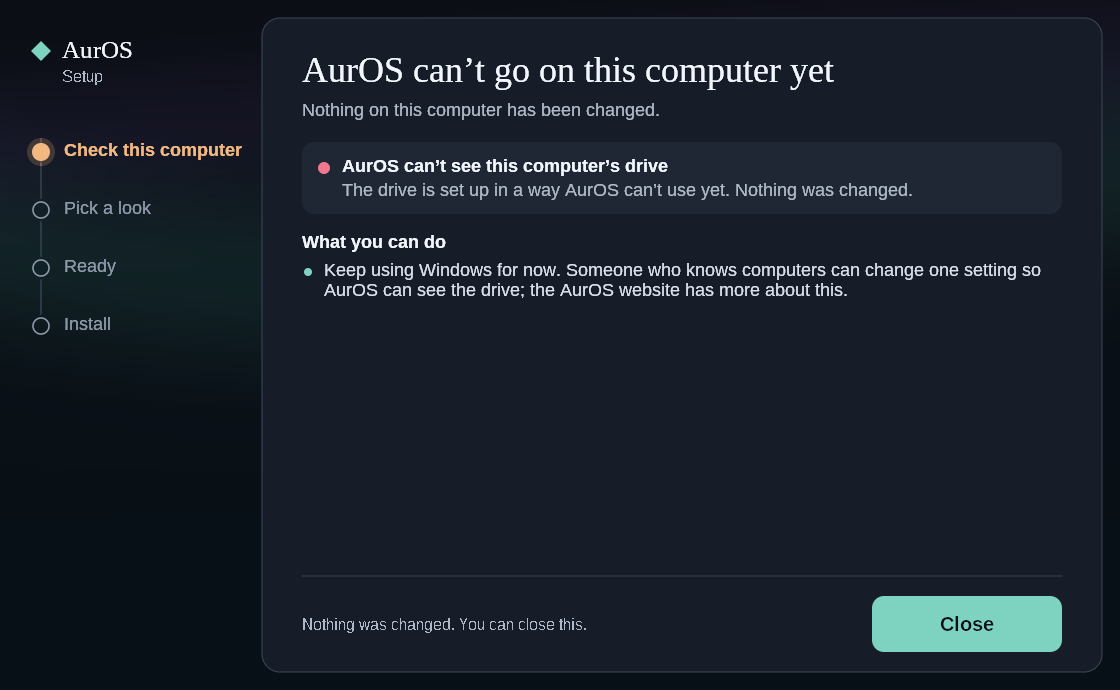
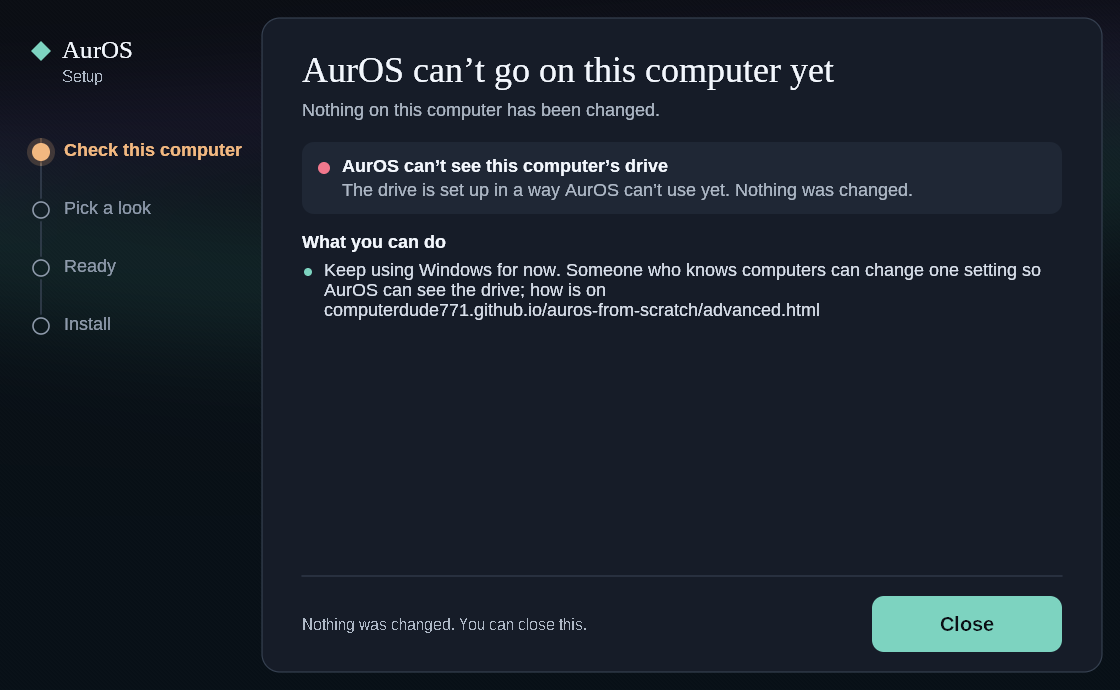
wizard: the can't-install page names the helper's page
For a PC that starts the older way, or an Intel-remapped NVMe drive,
"What you can do" now says where someone who knows computers finds how
(website/advanced.html, stream K): the address in full, because she
will copy it down. Shots re-rendered.

Claude-Session: https://claude.ai/code/session_017qioTeikWexSpAiM6y9oSA

Changed region(s): [[0.2812, 0.3957, 0.75, 0.4565]]

diff --git a/src/aurbridge/fix_win.c b/src/aurbridge/fix_win.c
@@ -158,16 +158,21 @@ static const struct { const char *id; const wchar_t *line; } NOTES[] = {
 
 /* ── when it cannot go on: what she can do instead ────────────────── */
 
+/* The page for "someone who knows computers" (website/advanced.html):
+ * switching a BIOS-mode PC to the newer way, and Intel's "RAID On" to
+ * AHCI, safely. Written out in full, because she will copy it down. */
+#define ADVANCED L"computerdude771.github.io/auros-from-scratch/advanced.html"
+
 static const struct { const char *id; const wchar_t *line; } INSTEAD[] = {
     { "arm-pc",
       L"Keep using Windows on this computer. AurOS goes on most other Windows "
       L"computers, so a different one will probably be fine." },
     { "firmware-bios",
       L"Keep using Windows for now. Someone who knows computers may be able to "
-      L"switch it to the newer way; the AurOS website has more about this." },
+      L"switch it to the newer way; how is on " ADVANCED },
     { "intel-rst",
       L"Keep using Windows for now. Someone who knows computers can change one "
-      L"setting so AurOS can see the drive; the AurOS website has more about this." },
+      L"setting so AurOS can see the drive; how is on " ADVANCED },
     { "smart-bad-sectors",
       L"Copy your photos and documents somewhere else today, while the drive "
       L"still works. Then have the drive replaced." },
